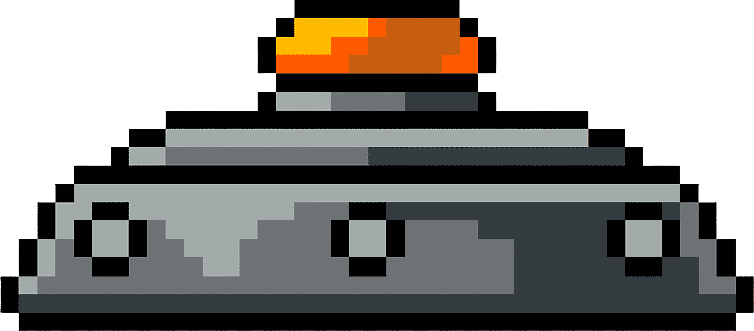
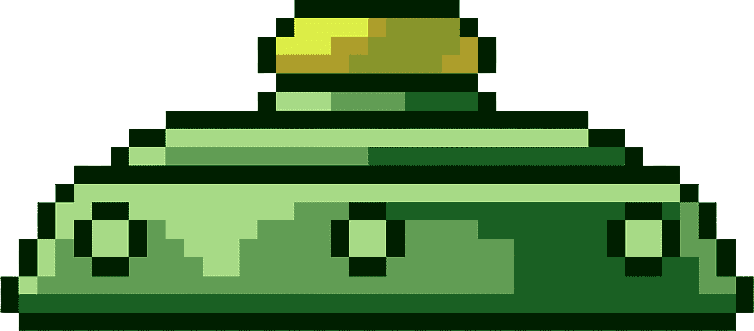
changed between the bushes and the grass. changed the color of the mines

diff --git a/Screen.py b/Screen.py
@@ -17,17 +17,17 @@ def create_light_surface():
     background_img = pygame.transform.scale(background_img, (Consts.SIZE * Consts.NUMBER_OF_COLUMNS, Consts.SIZE * Consts.NUMBER_OF_ROWS))
     screen.blit(background_img, (0, 0))
 
+    bush_img = pygame.image.load("png files/bush.png").convert_alpha()
+    bush_img = pygame.transform.scale(bush_img, (Consts.SIZE * 4, Consts.SIZE * 4))
+
+    for bush_index in range(20):
+        screen.blit(bush_img, MineField.bushes[bush_index])
+
     grass_img = pygame.image.load("png files/grass.png").convert_alpha()
-    grass_img = pygame.transform.scale(grass_img, (Consts.SIZE * 4, Consts.SIZE * 4))
-
-    for grass_index in range(20):
-        screen.blit(grass_img, MineField.grass[grass_index])
-
-    grass_img = pygame.image.load("png files/grass1.png").convert_alpha()
     grass_img = pygame.transform.scale(grass_img, (Consts.SIZE * 2, Consts.SIZE * 2))
 
-    for bush_index in range(5):
-        screen.blit(grass_img, MineField.bushes[bush_index])
+    for grass_index in range(5):
+        screen.blit(grass_img, MineField.grass[grass_index])
 
     flower_img = pygame.image.load("png files/flower.png").convert_alpha()
     flower_img = pygame.transform.scale(flower_img, (Consts.SIZE * 2, Consts.SIZE * 2))

diff --git a/MineField.py b/MineField.py
@@ -35,18 +35,18 @@ def randomize_mines():
             mines[mine_index].append(rnd_col + i)
 
 
-def randomize_grass():
+def randomize_bushes():
     for grass_index in range(20):
         rnd_x = random.randint(0, Consts.NUMBER_OF_COLUMNS * 25)
         rnd_y = random.randint(0, Consts.NUMBER_OF_ROWS * 25)
-        grass.append((rnd_x, rnd_y))
+        bushes.append((rnd_x, rnd_y))
 
 
-def randomize_bushes():
+def randomize_grass():
     for grass_index in range(10):
         rnd_x = random.randint(0, Consts.NUMBER_OF_COLUMNS * 25)
         rnd_y = random.randint(0, Consts.NUMBER_OF_ROWS * 25)
-        bushes.append((rnd_x, rnd_y))
+        grass.append((rnd_x, rnd_y))
 
 
 def randomize_flower():

diff --git a/main.py b/main.py
@@ -48,7 +48,7 @@ def main():
             # if user wants to QUIT, close pygame
             if event.type == pygame.QUIT:
                 pygame.quit()
-                return
+                return[]
             elif event.type == pygame.KEYDOWN:
                 if event.key == pygame.K_RETURN:
                     screen_timer = pygame.time.get_ticks()
